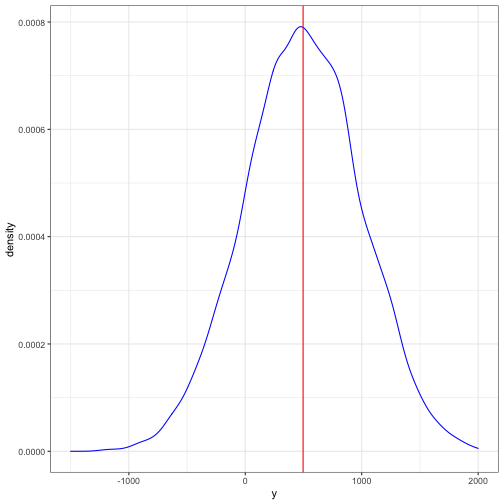
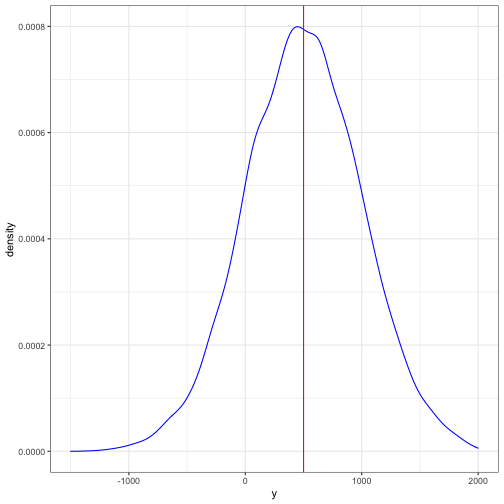
Update

diff --git a/slides/class_1/class_1.html b/slides/class_1/class_1.html
@@ -145,16 +145,16 @@ Supongamos que `\(\mathbf{y}: \{y_{1}, y_{2}, y_{3}, \dots, y_{n}\}\)` represent
 ## # A tibble: 10 × 3
 ##       mu      e     y
 ##    &lt;dbl&gt;  &lt;dbl&gt; &lt;dbl&gt;
-##  1   500 -23.1   477.
-##  2   500  14.9   515.
-##  3   500   9.63  510.
-##  4   500  -2.11  498.
-##  5   500  -3.22  497.
-##  6   500  18.7   519.
-##  7   500  16.4   516.
-##  8   500   1.21  501.
-##  9   500 -11.7   488.
-## 10   500   7.04  507.
+##  1   500  -7.80  492.
+##  2   500 -20.7   479.
+##  3   500  -4.40  496.
+##  4   500 -20.3   480.
+##  5   500   3.95  504.
+##  6   500  -3.43  497.
+##  7   500  20.7   521.
+##  8   500  -5.62  494.
+##  9   500  -2.34  498.
+## 10   500  25.0   525.
 ```
 
 ---
@@ -167,16 +167,16 @@ Supongamos que `\(\mathbf{y}: \{y_{1}, y_{2}, y_{3}, \dots, y_{n}\}\)` represent
 ## # A tibble: 10 × 3
 ##       mu      e     y
 ##    &lt;dbl&gt;  &lt;dbl&gt; &lt;dbl&gt;
-##  1   500 -23.1   477.
-##  2   500  14.9   515.
-##  3   500   9.63  510.
-##  4   500  -2.11  498.
-##  5   500  -3.22  497.
-##  6   500  18.7   519.
-##  7   500  16.4   516.
-##  8   500   1.21  501.
-##  9   500 -11.7   488.
-## 10   500   7.04  507.
+##  1   500  -7.80  492.
+##  2   500 -20.7   479.
+##  3   500  -4.40  496.
+##  4   500 -20.3   480.
+##  5   500   3.95  504.
+##  6   500  -3.43  497.
+##  7   500  20.7   521.
+##  8   500  -5.62  494.
+##  9   500  -2.34  498.
+## 10   500  25.0   525.
 ```
 
 ]
@@ -185,7 +185,7 @@ Supongamos que `\(\mathbf{y}: \{y_{1}, y_{2}, y_{3}, \dots, y_{n}\}\)` represent
 
 ```
 ## Promedio       SD     Gini  max-min 
-## 500.0000  10.0573   0.0113  84.2423
+## 500.0000  10.2473   0.0116  84.3415
 ```
 ]
 
@@ -201,18 +201,18 @@ Supongamos que `\(\mathbf{y}: \{y_{1}, y_{2}, y_{3}, \dots, y_{n}\}\)` represent
 
 ```
 ## # A tibble: 10 × 3
-##       mu      e     y
-##    &lt;dbl&gt;  &lt;dbl&gt; &lt;dbl&gt;
-##  1   500   60.3  560.
-##  2   500  -80.1  420.
-##  3   500  -16.2  484.
-##  4   500   89.4  589.
-##  5   500 -194.   306.
-##  6   500   67.0  567.
-##  7   500  -15.8  484.
-##  8   500  155.   655.
-##  9   500  187.   687.
-## 10   500  -50.7  449.
+##       mu     e     y
+##    &lt;dbl&gt; &lt;dbl&gt; &lt;dbl&gt;
+##  1   500 -12.4  488.
+##  2   500 122.   622.
+##  3   500  38.7  539.
+##  4   500 -66.8  433.
+##  5   500  86.8  587.
+##  6   500 121.   621.
+##  7   500  92.9  593.
+##  8   500  70.9  571.
+##  9   500 -54.7  445.
+## 10   500 -25.4  475.
 ```
 
 ---
@@ -222,18 +222,18 @@ Supongamos que `\(\mathbf{y}: \{y_{1}, y_{2}, y_{3}, \dots, y_{n}\}\)` represent
 
 ```
 ## # A tibble: 10 × 3
-##       mu      e     y
-##    &lt;dbl&gt;  &lt;dbl&gt; &lt;dbl&gt;
-##  1   500   60.3  560.
-##  2   500  -80.1  420.
-##  3   500  -16.2  484.
-##  4   500   89.4  589.
-##  5   500 -194.   306.
-##  6   500   67.0  567.
-##  7   500  -15.8  484.
-##  8   500  155.   655.
-##  9   500  187.   687.
-## 10   500  -50.7  449.
+##       mu     e     y
+##    &lt;dbl&gt; &lt;dbl&gt; &lt;dbl&gt;
+##  1   500 -12.4  488.
+##  2   500 122.   622.
+##  3   500  38.7  539.
+##  4   500 -66.8  433.
+##  5   500  86.8  587.
+##  6   500 121.   621.
+##  7   500  92.9  593.
+##  8   500  70.9  571.
+##  9   500 -54.7  445.
+## 10   500 -25.4  475.
 ```
 
 ]
@@ -242,7 +242,7 @@ Supongamos que `\(\mathbf{y}: \{y_{1}, y_{2}, y_{3}, \dots, y_{n}\}\)` represent
 
 ```
 ## Promedio       SD     Gini  max-min 
-##  502.000   99.133    0.111  785.574
+##  500.000  100.309    0.113  830.277
 ```
 ]
 
@@ -259,18 +259,18 @@ Supongamos que `\(\mathbf{y}: \{y_{1}, y_{2}, y_{3}, \dots, y_{n}\}\)` represent
 
 ```
 ## # A tibble: 10 × 3
-##       mu      e      y
-##    &lt;dbl&gt;  &lt;dbl&gt;  &lt;dbl&gt;
-##  1   500   45.6  546. 
-##  2   500  573.  1073. 
-##  3   500  441.   941. 
-##  4   500 1038.  1538. 
-##  5   500  189.   689. 
-##  6   500  541.  1041. 
-##  7   500  281.   781. 
-##  8   500  411.   911. 
-##  9   500  168.   668. 
-## 10   500 -433.    67.2
+##       mu       e     y
+##    &lt;dbl&gt;   &lt;dbl&gt; &lt;dbl&gt;
+##  1   500 -169.   331. 
+##  2   500  363.   863. 
+##  3   500   45.7  546. 
+##  4   500 -287.   213. 
+##  5   500  114.   614. 
+##  6   500 -489.    10.9
+##  7   500   22.9  523. 
+##  8   500   -4.03 496. 
+##  9   500  176.   676. 
+## 10   500  236.   736.
 ```
 
 ---
@@ -281,18 +281,18 @@ Supongamos que `\(\mathbf{y}: \{y_{1}, y_{2}, y_{3}, \dots, y_{n}\}\)` represent
 
 ```
 ## # A tibble: 10 × 3
-##       mu      e      y
-##    &lt;dbl&gt;  &lt;dbl&gt;  &lt;dbl&gt;
-##  1   500   45.6  546. 
-##  2   500  573.  1073. 
-##  3   500  441.   941. 
-##  4   500 1038.  1538. 
-##  5   500  189.   689. 
-##  6   500  541.  1041. 
-##  7   500  281.   781. 
-##  8   500  411.   911. 
-##  9   500  168.   668. 
-## 10   500 -433.    67.2
+##       mu       e     y
+##    &lt;dbl&gt;   &lt;dbl&gt; &lt;dbl&gt;
+##  1   500 -169.   331. 
+##  2   500  363.   863. 
+##  3   500   45.7  546. 
+##  4   500 -287.   213. 
+##  5   500  114.   614. 
+##  6   500 -489.    10.9
+##  7   500   22.9  523. 
+##  8   500   -4.03 496. 
+##  9   500  176.   676. 
+## 10   500  236.   736.
 ```
 
 ]
@@ -301,7 +301,7 @@ Supongamos que `\(\mathbf{y}: \{y_{1}, y_{2}, y_{3}, \dots, y_{n}\}\)` represent
 
 ```
 ## Promedio       SD     Gini  max-min 
-##  496.000  499.481    0.568 3827.097
+##  501.000  498.644    0.562 3478.837
 ```
 ]
 
@@ -426,10 +426,10 @@ Supongamos que la siguiente ecuación describe el estado de salud de una persona
 ## # Groups:   c [2]
 ##   c        e          promedio_salud
 ##   &lt;chr&gt;    &lt;chr&gt;               &lt;dbl&gt;
-## 1 no-univ. fumador              1.01
-## 2 no-univ. no-fumador           3.00
-## 3 univ.    fumador              4.01
-## 4 univ.    no-fumador           5.98
+## 1 no-univ. fumador              1.00
+## 2 no-univ. no-fumador           2.99
+## 3 univ.    fumador              4.00
+## 4 univ.    no-fumador           6.00
 ```
 
 ]
